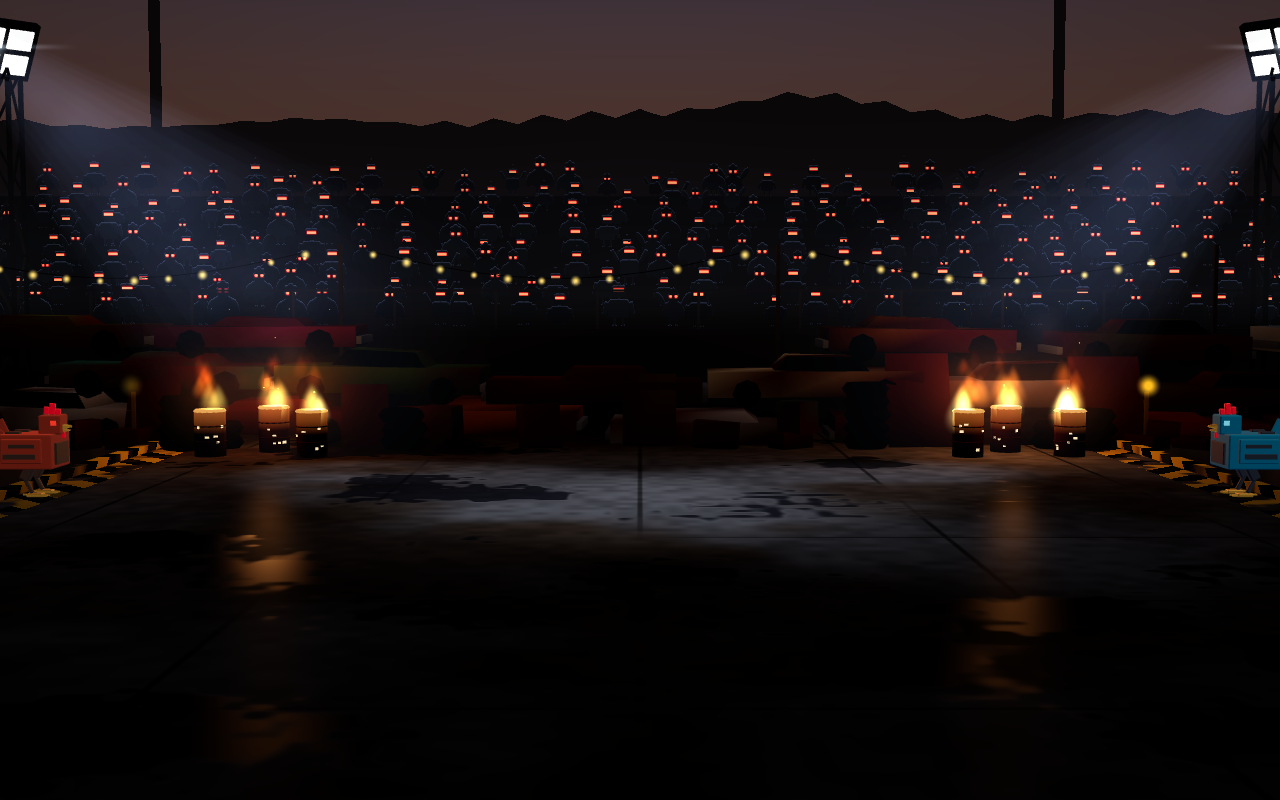
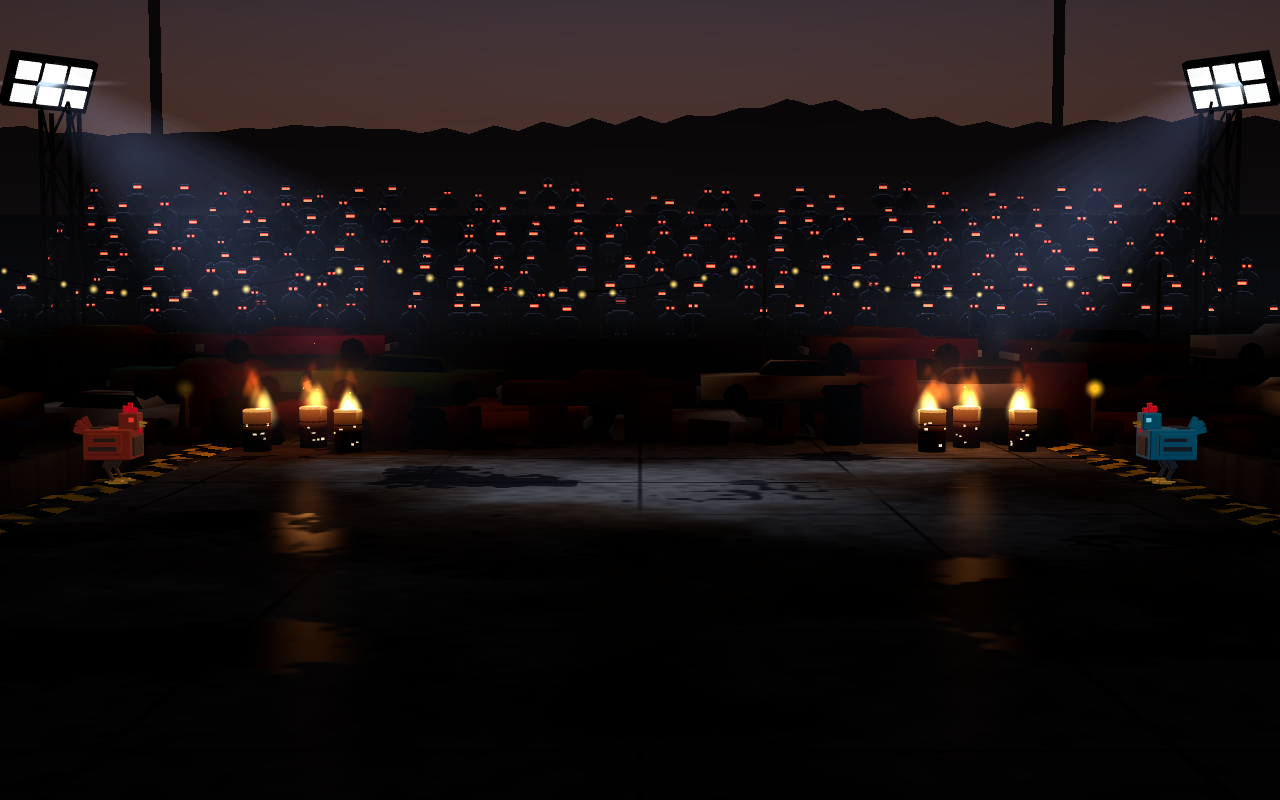
e2e: arena framing at 16:9, a landscape phone and portrait; cost per quality tier
- For 1280x720, 915x412 and 412x915: both fighters at the walk limits, then a
  close-range jump to the apex, with the HUD bars on (they are what the jump
  must clear). The spec also measures the real HUD band against the camera's
  hudBand.ts numbers (90 px at >= 640 wide vs 112 assumed, 67 vs 88 narrow),
  so the layout and the camera can't drift apart.
- Quality: arena draws / triangles per tier (arena vs /play?arena=0 deltas):
  high and medium +6 draws / +17362 tris, low +5 / +16788 (whole frame
  21 / 22588 vs 20 / 22014).
- Captures re-shot: arena, arena-wide (tails no longer clipped at the walls),
  arena-edge, arena-ringout, arena-hype (flush lip); new arena-jump,
  arena-phone-wide, arena-phone-jump, arena-portrait.

diff --git a/apps/web/e2e/arena.spec.ts b/apps/web/e2e/arena.spec.ts
@@ -1,5 +1,6 @@
 import { fileURLToPath } from "node:url";
 import { expect, test, type Page } from "@playwright/test";
+import { hudBandPx } from "../src/game/view/camera/hudBand";
 import { watchProblems } from "./support/console";
 import { openFight, snap, stepTicks } from "./support/fight";
 
@@ -45,7 +46,117 @@ async function cornerP2(page: Page): Promise<void> {
   });
 }
 
+/** Both fighters back off to the walk limits (9.5 u). */
+async function toTheWalls(page: Page): Promise<void> {
+  await page.evaluate(() => {
+    const f = (window as unknown as { __cockfight: { fight: DebugFight } }).__cockfight.fight;
+    f.setInput(0, f.B.L);
+    f.setInput(1, f.B.R);
+    f.stepTicks(160);
+    f.setInput(0, 0);
+    f.setInput(1, 0);
+    f.stepTicks(60); // the camera settles
+  });
+}
+
+/** The fighters walk in until they are 1.3 u apart, then P1 jumps straight up; returns at the apex (y in mu). */
+async function jumpUpClose(page: Page): Promise<number> {
+  return page.evaluate(() => {
+    const f = (window as unknown as { __cockfight: { fight: DebugFight } }).__cockfight.fight;
+    f.setInput(0, f.B.R);
+    f.setInput(1, f.B.L);
+    for (let i = 0; i < 400; i++) {
+      const s = f.state();
+      if ((s.f[1]?.x ?? 0) - (s.f[0]?.x ?? 0) < 1300) break;
+      f.stepTicks(1);
+    }
+    f.setInput(0, 0);
+    f.setInput(1, 0);
+    f.stepTicks(60);
+    f.setInput(0, f.B.U);
+    f.stepTicks(2);
+    f.setInput(0, 0);
+    let top = 0;
+    for (let i = 0; i < 60; i++) {
+      f.stepTicks(1);
+      const y = f.state().f[0]?.y ?? 0;
+      if (y < top) break;
+      top = y;
+    }
+    return top;
+  });
+}
+
+/** Bottom (CSS px) of the HUD's top band: names, bars, timer. */
+const hudBandBottom = (page: Page) =>
+  page.evaluate(() => {
+    const band = document.querySelector("[data-testid=fight-hud] > div");
+    return band ? band.getBoundingClientRect().bottom : 0;
+  });
+
+/**
+ * Framing across aspects: the camera must keep both fighters (at the walls)
+ * inside the frame and a full jump below the HUD band, landscape and portrait.
+ * The math is unit-tested (FightCamera.test.ts, through the real three
+ * camera); these shots are for the eye. The HUD stays on: it is part of the
+ * contract.
+ */
+const VIEWS = [
+  { name: "16x9", width: 1280, height: 720, wide: null, jump: "arena-jump.png" },
+  { name: "phone", width: 915, height: 412, wide: "arena-phone-wide.png", jump: "arena-phone-jump.png" },
+  { name: "portrait", width: 412, height: 915, wide: "arena-portrait.png", jump: null },
+] as const;
+
 test.describe("junkyard arena", () => {
+  for (const v of VIEWS) {
+    test(`frames both fighters and a full jump clear of the HUD: ${v.name} ${v.width}x${v.height}`, async ({ page }, info) => {
+      const problems = await watchProblems(page);
+      await page.setViewportSize({ width: v.width, height: v.height });
+      await openFight(page, `mode=2p&manual=1&debug=1&seed=e2e-frame-${v.name}`);
+      await stepTicks(page, 200);
+      // The camera keeps fighters below this many px; the real HUD must not reach past it.
+      const band = await hudBandBottom(page);
+      console.log(`[arena] ${v.name}: HUD band ends at ${band.toFixed(1)} px (camera assumes ${hudBandPx(v.width)})`);
+      expect(band).toBeLessThanOrEqual(hudBandPx(v.width) - 14); // - room for "SUPER READY"
+      // The bars stay (they are what the jump must clear); the FIGHT! banner would only cover the fighters.
+      await page.addStyleTag({ content: "[data-testid=hud-banner]{display:none !important}" });
+
+      await toTheWalls(page);
+      await settle(page);
+      const s = await snap(page);
+      expect(s.f[0]!.x).toBe(-9500);
+      expect(s.f[1]!.x).toBe(9500);
+      await page.screenshot({ path: v.wide ? CAP(v.wide) : info.outputPath("wide.png") });
+
+      const apex = await jumpUpClose(page);
+      expect(apex).toBeGreaterThan(2400);
+      await settle(page, 150);
+      await page.screenshot({ path: v.jump ? CAP(v.jump) : info.outputPath("jump.png") });
+      expect(problems.errors).toEqual([]);
+    });
+  }
+
+  test("quality 'low' cuts the arena's own draws and triangles", async ({ page }) => {
+    const problems = await watchProblems(page);
+    const cost: Record<string, { drawCalls: number; triangles: number }> = {};
+    for (const tier of ["high", "medium", "low"] as const) {
+      const measure = async (arena: boolean) => {
+        await openFight(page, `mode=2p&manual=1&debug=1&seed=e2e-quality&quality=${tier}${arena ? "" : "&arena=0"}`);
+        await stepTicks(page, 200);
+        await settle(page, 200);
+        return perf(page);
+      };
+      const bare = await measure(false);
+      const full = await measure(true);
+      cost[tier] = { drawCalls: full.drawCalls - bare.drawCalls, triangles: full.triangles - bare.triangles };
+      console.log(`[arena] quality ${tier}: whole frame ${full.drawCalls} draws / ${full.triangles} tris; arena +${cost[tier].drawCalls} draws / +${cost[tier].triangles} tris`);
+    }
+    expect(cost.high).toEqual(cost.medium); // the arena itself only has a 'low' variant
+    expect(cost.low!.drawCalls).toBe(cost.medium!.drawCalls - 1); // the crowd's flash pass
+    expect(cost.low!.triangles).toBeLessThan(cost.medium!.triangles - 500); // + smoke, embers, haze
+    expect(problems.errors).toEqual([]);
+  });
+
   test("renders the pit with both fighters inside the frame budget", async ({ page }) => {
     const problems = await watchProblems(page);
     await openFight(page, "mode=2p&manual=1&debug=1&seed=e2e-arena");
